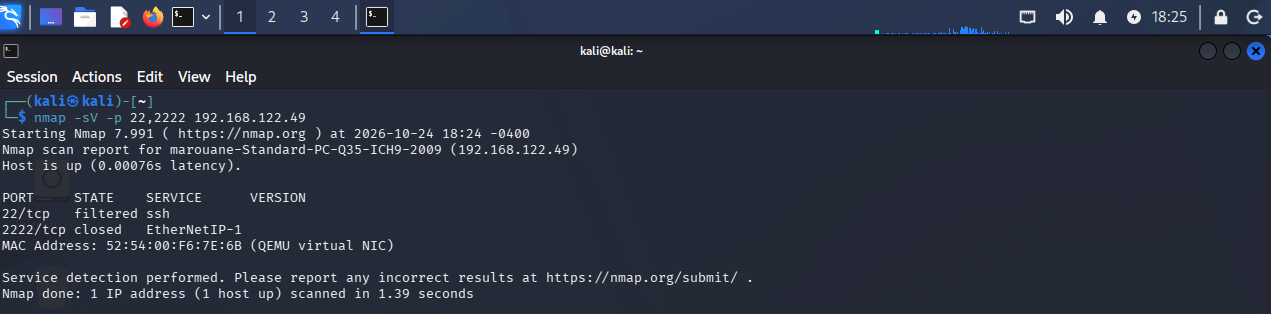
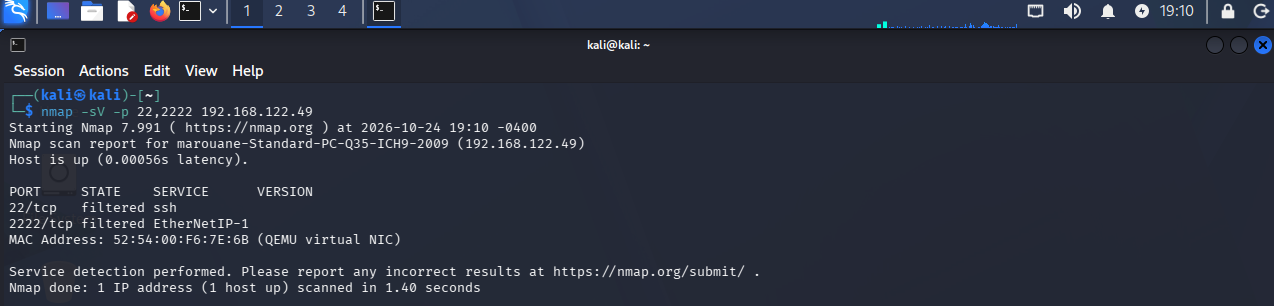
ufw deny 2222/tcp

diff --git a/README.md b/README.md
@@ -28,6 +28,6 @@ AllowTcpForwarding no
 
 ## Phase 3 — Vérification finale depuis Kali
 
-- **Étape 7 :** `nmap -sV -p 22,2222 192.168.56.10` → port 22 inaccessible, port 2222 accessible.
+- **Étape 7 :** `nmap -sV -p 22,2222 192.168.122.49` → port 22 and port 2222 are inaccessible.
 - **Étape 8 :** Connexion par mot de passe refusée (`PasswordAuthentication no`).
 - **Étape 9 :** Connexion directe de `root` refusée (`PermitRootLogin no`).
